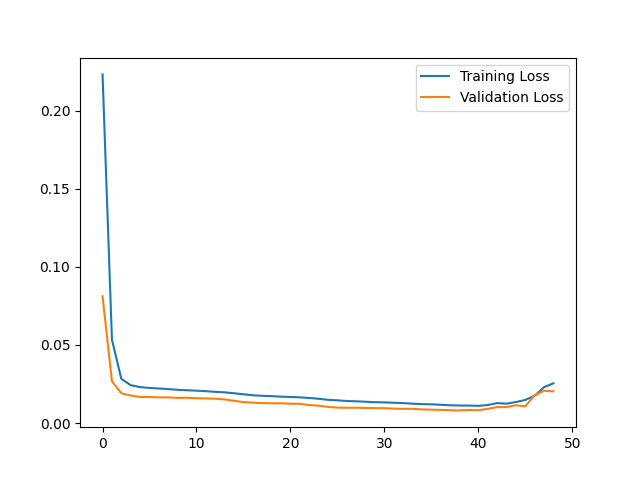
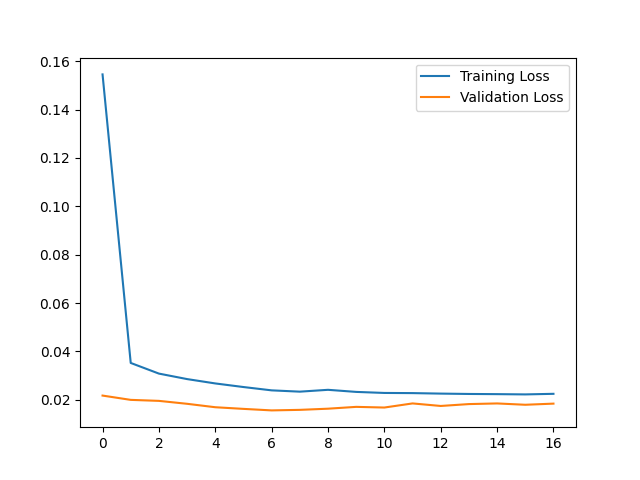
feat: comit final para entrega

diff --git a/intrusion_detection_ch.py b/intrusion_detection_ch.py
@@ -108,30 +108,30 @@ def compute_shap(data_chd, model, results_model):
         # specify the paramters of the grid space to serach, i.e. can use: np.arange(448,800,4).tolist()
     
     results_AE_SHAP['parameters'] = {
-                                        # encoder params to search across
-                                        'dense_1_units':[256],                                   
-                                        'dense_1_activation':['relu'],  # 32,64,128,256
-                                        'dense_2_units':[64],                                 
-                                        'dense_2_activation':['relu'],  # 32,48,64
-                                        'dense_3_units':[8],                                           
-                                        'dense_3_activation':['relu'], # 8,16, 24
-                                        # decoder params to search across
-                                        'dense_4_units':[64],                                        
-                                        'dense_4_activation':['relu'],
-                                        'dense_5_units':[256],                                    
-                                        'dense_5_activation':['relu'],  # 64,128,256
-                                        'dense_6_units':[results_AE_SHAP['x_data'].shape[1]],               
-                                        'dense_6_activation':['sigmoid']    
-                                    }
+                                    # encoder params to search across
+                                    'dense_1_units':[64],                                   
+                                    'dense_1_activation':['relu'],
+                                    'dense_2_units':[32],                                 
+                                    'dense_2_activation':['relu'],
+                                    'dense_3_units':[16],                                           
+                                    'dense_3_activation':['relu'],
+                                    # decoder params to search across
+                                    'dense_4_units':[32],                                        
+                                    'dense_4_activation':['relu'],
+                                    'dense_5_units':[64],                                    
+                                    'dense_5_activation':['relu'],
+                                    'dense_6_units':[results_AE_SHAP['x_data'].shape[1]],               
+                                    'dense_6_activation':['sigmoid']    
+                                }
 
     # perform the grid search and return parameters of the best model
     results_AE_SHAP['grid_search'], results_AE_SHAP['best_params'] = utf.get_hyper_Autoencoder(results_AE_SHAP['parameters'], results_AE_SHAP['x_data'], results_AE_SHAP['val_data'],
-                                                                                            method='exact', num_epochs=10, batch_size=512, AE_type = 'joint')   
+                                                                                            method='exact', num_epochs=10, batch_size=2048, AE_type = 'joint')   
     # Using the best parameters, build and train the final model
     autoencoder_shap = utf.Autoencoder(results_AE_SHAP['x_data'].shape[1], results_AE_SHAP['best_params'][2], results_AE_SHAP['best_params'][3], AE_type='joint') # create the AE model object
 
     early_stop = tf.keras.callbacks.EarlyStopping(monitor='val_loss', min_delta=1e-4, patience=10, verbose=2, mode='min', restore_best_weights=True)     # set up early stop criteria
-    history_AE_SHAP = autoencoder_shap.full.fit(results_AE_SHAP['x_data'], results_AE_SHAP['x_data'], epochs=1000, batch_size=512, shuffle=True, validation_data=(results_AE_SHAP['val_data'],   
+    history_AE_SHAP = autoencoder_shap.full.fit(results_AE_SHAP['x_data'], results_AE_SHAP['x_data'], epochs=1000, batch_size=2048, shuffle=True, validation_data=(results_AE_SHAP['val_data'],   
                                 results_AE_SHAP['val_data']), verbose=2, callbacks=[early_stop]).history
     # plot the training curve
     plt.plot(history_AE_SHAP["loss"], label="Training Loss")

diff --git a/utility_funcs.py b/utility_funcs.py
@@ -221,7 +221,7 @@ class Autoencoder(Model):
         num_units:    numpy array with elements representing num of dense units for each layer
         act_fn:       list with each element corresponding to the activation function of that layer
     """      
-    def __init__(self, x_shape, num_units, act_fn, AE_type='joint', learning_rate=1e-3):
+    def __init__(self, x_shape, num_units, act_fn, AE_type='joint', learning_rate=1e-4):
         super(Autoencoder, self).__init__()
         self.x_shape = x_shape
         self.num_units = num_units
@@ -260,7 +260,7 @@ class Autoencoder(Model):
         if AE_type == 'random':
             self.encoder.trainable = False # if defining a random autoencoder, dont optimise the encoder weights
        
-        self.full.compile(optimizer=tf.keras.optimizers.Adam(learning_rate=1e-3), loss='mae')
+        self.full.compile(optimizer=tf.keras.optimizers.Adam(learning_rate=1e-4), loss='mae')
 
 def get_hyper_Autoencoder(parameters, x_data, val_data=None, method='exact', num_perm=None, num_epochs=20, batch_size=512, AE_type = 'joint'):
     """

diff --git a/utils_chd.py b/utils_chd.py
@@ -14,7 +14,7 @@ def read_chd_dataset() -> pd.DataFrame:
         './results_car_hacking_dataset/RPM_dataset_processed.csv'
     ]
     df = pd.concat([pd.read_csv(f) for f in files], ignore_index=True)
-    df = df.sample(frac=1, random_state=10).reset_index(drop=True)
+    df = df.sample(frac=0.1, random_state=10).reset_index(drop=True)
     df.drop(columns=['ID_raw'], inplace=True)
     return df
 
